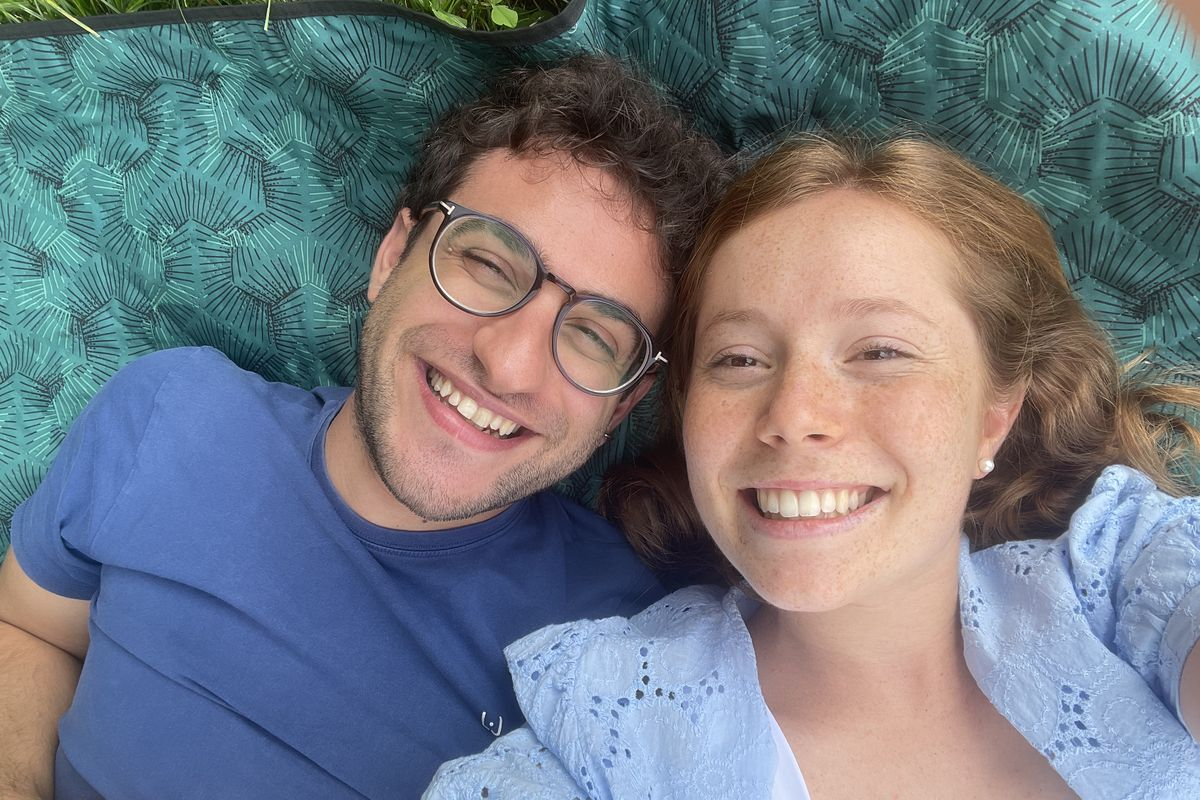
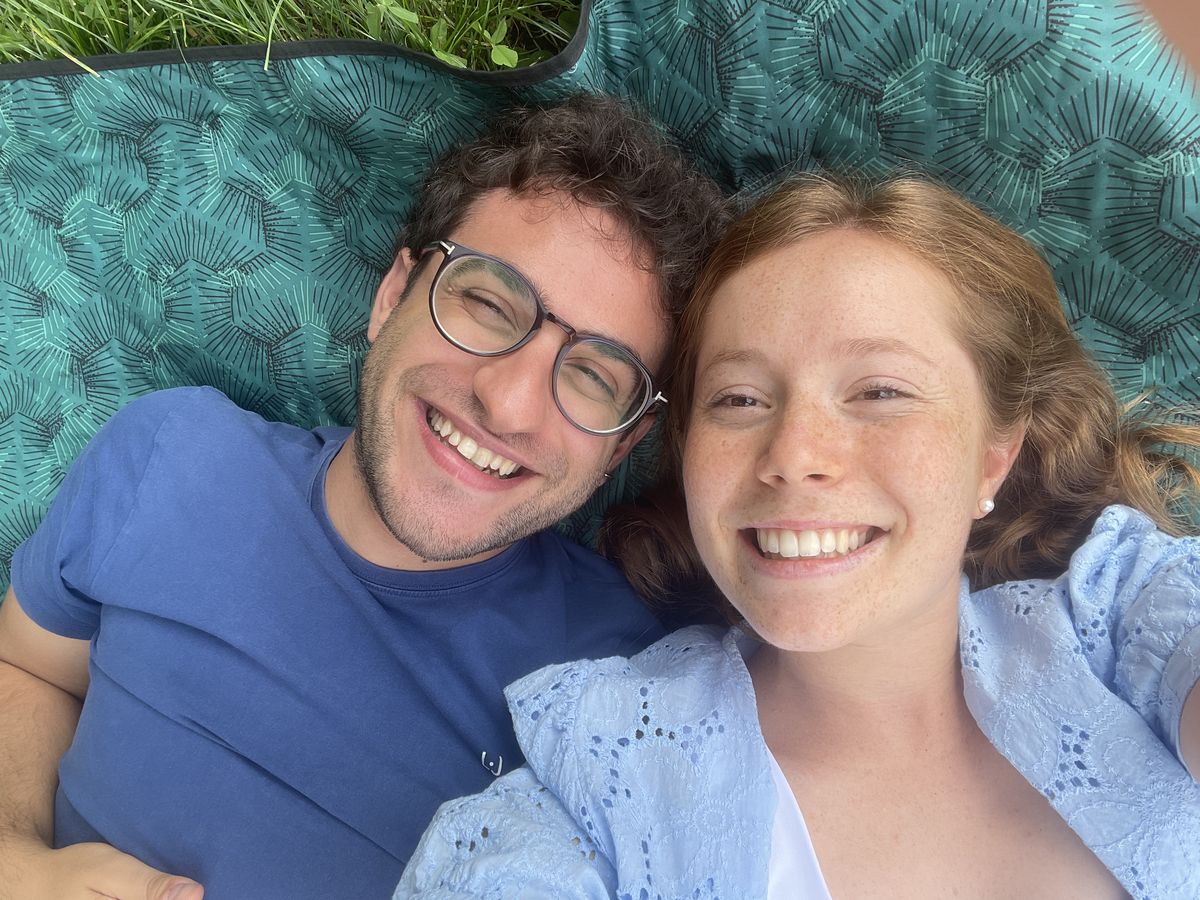
feat: update hero images and adjust aspect ratio for improved display

diff --git a/css/style.css b/css/style.css
@@ -216,7 +216,7 @@ a { color: inherit; }
 }
 .hero__frame {
   position: relative;
-  aspect-ratio: 3 / 2;
+  aspect-ratio: 4 / 3;
   background: var(--blanket);
   box-shadow: 0 .6rem 1.6rem rgba(18, 48, 68, .22);
 }
@@ -649,17 +649,52 @@ a { color: inherit; }
   height: 1.9rem;
   padding: 0;
   transform: translate(-50%, -50%);
-  background: var(--blanket);
+  background: none;
+  border: 0;
   color: #fff;
+  cursor: pointer;
+}
+.trip__pin-num {
+  display: grid;
+  place-items: center;
+  width: 100%;
+  height: 100%;
+  background: var(--blanket);
   border: 2px solid #fff;
   border-radius: 50%;
   box-shadow: 0 .15rem .5rem rgba(18, 48, 68, .35);
   font: 500 1rem/1 var(--serif);
-  cursor: pointer;
   transition: transform .15s, background-color .15s;
 }
-.trip__pin:hover, .trip__pin.is-active { background: var(--ink); transform: translate(-50%, -50%) scale(1.15); }
-.trip__pin:focus-visible, .trip__stop:focus-visible { outline: 3px solid var(--ink); outline-offset: 3px; }
+.trip__pin:hover .trip__pin-num, .trip__pin.is-active .trip__pin-num { background: var(--ink); transform: scale(1.15); }
+.trip__pin:focus-visible, .trip__stop:focus-visible { outline: 3px solid var(--ink); outline-offset: 3px; border-radius: 50%; }
+.trip__pin-name {
+  position: absolute;
+  white-space: nowrap;
+  font-family: var(--caps);
+  font-weight: 500;
+  font-size: .95rem;
+  line-height: 1;
+  color: var(--ink);
+  text-shadow: 0 0 2px #fff, 0 0 4px #fff, 0 0 7px #f6fafc;
+  pointer-events: none;
+}
+.trip__pin-name--right { left: calc(100% + .35rem); top: 50%; transform: translateY(-50%); }
+.trip__pin-name--left { right: calc(100% + .35rem); top: 50%; transform: translateY(-50%); }
+.trip__pin-name--above { bottom: calc(100% + .25rem); left: 50%; transform: translateX(-50%); }
+.trip__pin-name--below { top: calc(100% + .25rem); left: 50%; transform: translateX(-50%); }
+.trip__hint { margin: .9rem 0 0; text-align: center; font-style: italic; color: var(--muted); }
+/* Finché nessuno ha toccato un numero, i segnaposto pulsano piano per far capire che si possono premere. */
+@media (prefers-reduced-motion: no-preference) {
+  .trip.is-new .trip__pin-num { animation: pin-pulse 2.4s ease-out infinite; }
+  .trip.is-new .trip__pin:nth-of-type(2) .trip__pin-num { animation-delay: .3s; }
+  .trip.is-new .trip__pin:nth-of-type(3) .trip__pin-num { animation-delay: .6s; }
+  .trip.is-new .trip__pin:nth-of-type(4) .trip__pin-num { animation-delay: .9s; }
+}
+@keyframes pin-pulse {
+  0% { box-shadow: 0 .15rem .5rem rgba(18, 48, 68, .35), 0 0 0 0 rgba(51, 92, 114, .5); }
+  70%, 100% { box-shadow: 0 .15rem .5rem rgba(18, 48, 68, .35), 0 0 0 .9rem rgba(51, 92, 114, 0); }
+}
 .trip__pop {
   position: absolute;
   z-index: 3;
@@ -728,10 +763,7 @@ a { color: inherit; }
   font: 500 .95rem/1 var(--serif);
 }
 .timeline__item.is-active .trip__num { background: var(--ink); }
-@media (min-width: 52rem) {
-  .trip { max-width: 62rem; display: grid; grid-template-columns: 1.15fr 1fr; gap: 3rem; align-items: center; }
-  .trip__legend { margin: 0; }
-}
+.trip.has-map .trip__legend { display: none; }
 
 /* ───── Contatti e galleria ───── */
 .contacts { list-style: none; margin: 1.6rem 0 0; padding: 0; display: grid; gap: .8rem; text-align: center; }

diff --git a/js/app.js b/js/app.js
@@ -626,10 +626,13 @@
   function setupTripMap() {
     var data = window.TRIP_MAP;
     var box = $('#trip-map');
-    if (!data || !box) return;
+    var wrap = $('.trip');
+    if (!data || !box || !wrap) return;
     var NS = 'http://www.w3.org/2000/svg';
     var W = data.width, H = data.height;
     var photosOf = function (id) { return (SITE.tripPhotos && SITE.tripPhotos[id]) || []; };
+    // Dove sta il nome rispetto al segnaposto, scelto per non finire sopra i tragitti.
+    var LABEL_SIDE = { tokyo: 'below', kyoto: 'above', osaka: 'left', samui: 'right' };
 
     function svgEl(name, attrs) {
       var el = document.createElementNS(NS, name);
@@ -669,8 +672,10 @@
       if (!c) return;
       order.push(id);
       stops[id] = btn;
-      pins[id] = h('button', { type: 'button', class: 'trip__pin', 'data-city': id, text: String(order.length),
-        style: 'left:' + (c.x / W) * 100 + '%;top:' + (c.y / H) * 100 + '%' });
+      pins[id] = h('button', { type: 'button', class: 'trip__pin', 'data-city': id,
+        style: 'left:' + (c.x / W) * 100 + '%;top:' + (c.y / H) * 100 + '%' },
+        h('span', { class: 'trip__pin-num', text: String(order.length) }),
+        h('span', { class: 'trip__pin-name trip__pin-name--' + (LABEL_SIDE[id] || 'right'), text: textOf(btn, '.trip__city') }));
       box.append(pins[id]);
       var open = function (e) { e.stopPropagation(); select(id); };
       pins[id].addEventListener('click', open);
@@ -685,6 +690,7 @@
 
     function select(id) {
       current = id;
+      wrap.classList.remove('is-new');
       Object.keys(pins).forEach(function (k) {
         pins[k].classList.toggle('is-active', k === id);
         stops[k].classList.toggle('is-active', k === id);
@@ -737,12 +743,22 @@
       Object.keys(pins).forEach(function (k) { pins[k].classList.remove('is-active'); stops[k].classList.remove('is-active'); });
     }
 
+    // Etichette per chi usa lo screen reader: nome e date, nella lingua corrente.
+    function refreshLabels() {
+      order.forEach(function (id) {
+        pins[id].setAttribute('aria-label', textOf(stops[id], '.trip__city') + ', ' + textOf(stops[id], '.timeline__when'));
+      });
+    }
+    refreshLabels();
+    wrap.classList.add('has-map', 'is-new');
+    $('#trip-hint').hidden = false;
+
     document.addEventListener('click', function (e) { if (current && !pop.contains(e.target)) close(); });
     document.addEventListener('keydown', function (e) { if (e.key === 'Escape' && current) close(); });
     window.addEventListener('resize', place);
     // Cambio lingua: il fumetto aperto si riscrive nella nuova lingua.
     document.querySelectorAll('.lang button').forEach(function (b) {
-      b.addEventListener('click', function () { if (current) select(current); });
+      b.addEventListener('click', function () { refreshLabels(); if (current) select(current); });
     });
     applyI18n();
   }

diff --git a/index.html b/index.html
@@ -56,7 +56,7 @@
 
       <figure class="hero__figure">
         <div class="hero__frame">
-          <img class="hero__photo" src="assets/hero/01.jpg" width="1200" height="800"
+          <img class="hero__photo" src="assets/hero/01.jpg" width="1200" height="900"
                alt="Lucia e Luigi insieme, sorridenti" data-i18n-attr="alt:hero.photoAlt" fetchpriority="high">
         </div>
         <figcaption class="hero__names" aria-label="Luci e Gigi"><span aria-hidden="true">Luci <span class="amp">&amp;</span> Gigi</span></figcaption>
@@ -173,6 +173,7 @@
         <p class="lead" data-i18n="trip.lead">Dopo il matrimonio partiamo per il Giappone e la Thailandia.</p>
         <div class="trip">
           <div class="trip__map" id="trip-map"></div>
+          <p class="trip__hint" id="trip-hint" data-i18n="trip.hint" hidden>Tocca i numeri sulla mappa per scoprire le tappe.</p>
           <ol class="timeline trip__legend" id="trip-legend">
             <li class="timeline__item" data-city="tokyo">
               <p class="timeline__when" data-i18n="trip.d1">2–8 giugno</p>

diff --git a/js/i18n.js b/js/i18n.js
@@ -114,6 +114,7 @@ window.I18N = {
     'trip.d4': '13–18 giugno',
     'trip.jp': 'Giappone',
     'trip.close': 'Chiudi',
+    'trip.hint': 'Tocca i numeri sulla mappa per scoprire le tappe.',
     'trip.th': 'Thailandia',
     'gift.title': 'Regalo di nozze',
     'gift.text': 'Il regalo più bello è averti con noi. Se vorrai farci un pensiero, non abbiamo una lista nozze: ci renderà felici un piccolo contributo per iniziare insieme la nostra vita da sposi. Qui sotto trovi i dati per il bonifico. Grazie di cuore!',
@@ -255,6 +256,7 @@ window.I18N = {
     'trip.d4': '13–18 June',
     'trip.jp': 'Japan',
     'trip.close': 'Close',
+    'trip.hint': 'Tap the numbers on the map to explore each stop.',
     'trip.th': 'Thailand',
     'gift.title': 'Wedding gift',
     'gift.text': 'The best gift is having you with us. If you’d like to give us something, we don’t have a gift list: a small contribution will help us start our married life together. You’ll find the bank details below. Thank you from the bottom of our hearts!',

diff --git a/tools/optimize_photos.py b/tools/optimize_photos.py
@@ -9,7 +9,7 @@ Per ogni foto crea in photos/ una versione grande (lato lungo max 1600 px) e in 
 Le foto vengono ruotate secondo l'orientamento e ripulite da tutti i metadati (posizione GPS compresa):
 il sito è pubblico, quindi non deve uscire nulla che non si veda nell'immagine.
 
-Con --hero le foto vengono ritagliate in 3:2 (il formato della cornice), larghe 1200 px, e salvate in assets/hero/;
+Con --hero le foto vengono ritagliate in 4:3 (il formato della cornice), larghe 1200 px, e salvate in assets/hero/;
 il ritaglio tiene il punto di fuoco un po' sopra il centro (--focus 0.4) così i visi restano dentro. Con --sheet FILE.jpg
 crea anche un foglio di anteprima con tutte le foto, per controllare i ritagli.
 
@@ -31,7 +31,7 @@ except ImportError:  # senza il plugin le foto HEIC vengono saltate con un messa
 ROOT = Path(__file__).resolve().parent.parent
 EXTENSIONS = {'.jpg', '.jpeg', '.png', '.webp', '.heic', '.heif'}
 HERO_WIDTH = 1200
-HERO_RATIO = 3 / 2
+HERO_RATIO = 4 / 3
 FULL_SIZE = 1600
 THUMB_SIZE = 480
 
@@ -71,7 +71,7 @@ def main():
     parser = argparse.ArgumentParser(description=__doc__, formatter_class=argparse.RawDescriptionHelpFormatter)
     parser.add_argument('source', type=Path, help='cartella con le foto originali (anche sottocartelle)')
     parser.add_argument('--out', type=Path, help='cartella di destinazione (default: photos/, con --hero assets/hero/)')
-    parser.add_argument('--hero', action='store_true', help="foto per l'apertura: ritagliate 3:2, in assets/hero/")
+    parser.add_argument('--hero', action='store_true', help="foto per l'apertura: ritagliate 4:3, in assets/hero/")
     parser.add_argument('--focus', type=float, default=0.4, help='con --hero: dove tenere il ritaglio nelle foto alte (0 alto, 1 basso)')
     parser.add_argument('--sheet', type=Path, help='con --hero: salva qui un foglio di anteprima dei ritagli')
     args = parser.parse_args()

diff --git a/CLAUDE.md b/CLAUDE.md
@@ -35,8 +35,8 @@ Contesto per Claude Code: stato del progetto e decisioni prese finora. Lingua di
   - Scartati: navetta, alloggio, canzone.
 - **Backend RSVP:** Google Sheet + Google Apps Script (web app) che riceve le risposte dal sito. Gratuito; il foglio si scarica in Excel. Risposte e codici vivono solo nel foglio; i link personali pre-generati dal menu "Genera codici e link" restano possibili ma non servono più.
 - **Privacy: "pubblico ma discreto".** Informazioni generali visibili a chiunque abbia l'indirizzo; `noindex` (fuori da Google). Con il link unico **IBAN, scadenza e stato (chiuso/aperto) sono pubblici**: li restituisce `?action=info` a chiunque. L'IBAN vero sta nel foglio `Config`, non nella repo; le risposte degli invitati escono dallo script solo con il codice della risposta. Antispam: campo trappola nascosto, massimo 12 persone per risposta, massimo 600 righe in `Invitati`. **La repo è pubblica: mai mettere IBAN, liste di invitati o altri dati personali nel codice.**
-- **Sezioni:** copertina (nomi, data, countdown, "aggiungi al calendario"), programma, **La Chiesa** (orario, indirizzo, "Apri in Maps", mappa, parcheggio), **Il Ricevimento** (idem + percorso dalla chiesa), RSVP (sezione con pulsante "RSVP" che apre il modulo; il pulsante c'è sempre; senza backend, cliccandolo compare "aprirà a breve"), **viaggio di nozze** (mappa illustrata interattiva nei colori del sito, fatta il 2026-10-25: Giappone in alto con Tokyo 2-8 giugno, Kyoto 8-11, Osaka 11-13; Thailandia in basso con Koh Samui 13-18; tragitti tratteggiati; toccando un segnaposto numerato o una tappa dell'elenco compare un fumetto con date e foto; disegni in `js/trip-map-data.js` generato da `tools/make_trip_map.py` con i confini Natural Earth; foto delle tappe: una per città in `assets/trip/` (mandate da Luigi il 2026-10-25, probabilmente prese da internet), elenco `tripPhotos` in `js/config.js`; date e testi in `i18n.js` chiavi `trip.*` e nell'elenco di `index.html`; le date sono ancora indicative), regalo di nozze (solo IBAN, niente lista regali; sezione sempre visibile, IBAN con pulsante "copia"), contatti, **galleria foto** (45 foto in `photos/`, scelte da Luigi nello zip `Luci&Gigi-…zip` del 2026-10-25 con la foto del Save the Date per prima; compare con il pulsante "Guarda le foto" accanto a RSVP in apertura). Scartate: la sezione FAQ (tolta il 2026-10-23), "la nostra storia", "come arrivare e dormire" generale, foto degli ospiti con QR.
-- **Apertura con foto a scorrimento (fatta il 2026-10-25):** al posto della singola foto del Save the Date scorrono 15 foto di Lucia e Luigi (`assets/hero/01..15.jpg`, 1200x800, senza metadati), la prima è sempre la foto del Save the Date (`01.jpg`), le altre in ordine casuale a ogni visita, una ogni 6 s con dissolvenza di 1,2 s (`SLIDE_MS` in `app.js`; ferma con `prefers-reduced-motion`; in pausa a scheda nascosta; ne scarica una alla volta). Scelte da Claude tra le 62 della cartella privata del Drive di Luigi ("Matrimonio > Foto Luci&Gigi") guardando le anteprime: da cambiare se Luigi preferisce altre. Per rifarlo: scaricare lo zip, `pip install pillow pillow-heif` (nota: su questo PC `python` è quello di Inkscape, senza pip: usare il Python 3.11 di WindowsApps), `python tools/optimize_photos.py CARTELLA --hero --sheet anteprima.jpg`, scegliere le foto, aggiornare `heroPhotos` in `js/config.js` e il primo `src` in `index.html`. Se `heroPhotos` ha meno di 2 foto resta ferma la prima. **`assets/og.jpg` (anteprima WhatsApp) è ancora ricavata dalla foto del Save the Date**: rigenerarla se si vuole cambiare.
+- **Sezioni:** copertina (nomi, data, countdown, "aggiungi al calendario"), programma, **La Chiesa** (orario, indirizzo, "Apri in Maps", mappa, parcheggio), **Il Ricevimento** (idem + percorso dalla chiesa), RSVP (sezione con pulsante "RSVP" che apre il modulo; il pulsante c'è sempre; senza backend, cliccandolo compare "aprirà a breve"), **viaggio di nozze** (mappa illustrata interattiva nei colori del sito, fatta il 2026-10-25: Giappone in alto con Tokyo 2-8 giugno, Kyoto 8-11, Osaka 11-13; Thailandia in basso con Koh Samui 13-18; tragitti tratteggiati; toccando un segnaposto numerato (con il nome accanto, che pulsa finché nessuno lo tocca; sotto la mappa c è un suggerimento) compare un fumetto con date e foto; l elenco delle tappe in HTML resta solo come ripiego senza JavaScript; disegni in `js/trip-map-data.js` generato da `tools/make_trip_map.py` con i confini Natural Earth; foto delle tappe: una per città in `assets/trip/` (mandate da Luigi il 2026-10-25, probabilmente prese da internet), elenco `tripPhotos` in `js/config.js`; date e testi in `i18n.js` chiavi `trip.*` e nell'elenco di `index.html`; le date sono ancora indicative), regalo di nozze (solo IBAN, niente lista regali; sezione sempre visibile, IBAN con pulsante "copia"), contatti, **galleria foto** (45 foto in `photos/`, scelte da Luigi nello zip `Luci&Gigi-…zip` del 2026-10-25 con la foto del Save the Date per prima; compare con il pulsante "Guarda le foto" accanto a RSVP in apertura). Scartate: la sezione FAQ (tolta il 2026-10-23), "la nostra storia", "come arrivare e dormire" generale, foto degli ospiti con QR.
+- **Apertura con foto a scorrimento (fatta il 2026-10-25):** al posto della singola foto del Save the Date scorrono 16 foto di Lucia e Luigi (`assets/hero/01..16.jpg`, 1200x900 (4:3), senza metadati), la prima è sempre la foto del Save the Date (`01.jpg`), le altre in ordine casuale a ogni visita, una ogni 6 s con dissolvenza di 1,2 s (`SLIDE_MS` in `app.js`; ferma con `prefers-reduced-motion`; in pausa a scheda nascosta; ne scarica una alla volta). Scelte da Claude tra le 62 della cartella privata del Drive di Luigi ("Matrimonio > Foto Luci&Gigi") guardando le anteprime: da cambiare se Luigi preferisce altre. Per rifarlo: scaricare lo zip, `pip install pillow pillow-heif` (nota: su questo PC `python` è quello di Inkscape, senza pip: usare il Python 3.11 di WindowsApps), `python tools/optimize_photos.py CARTELLA --hero --sheet anteprima.jpg`, scegliere le foto, aggiornare `heroPhotos` in `js/config.js` e il primo `src` in `index.html`. Se `heroPhotos` ha meno di 2 foto resta ferma la prima. **`assets/og.jpg` (anteprima WhatsApp) è ancora ricavata dalla foto del Save the Date**: rigenerarla se si vuole cambiare.
 - **Foto di chiesa e ricevimento (2026-10-23):** le mappe OpenStreetMap incorporate sono state sostituite da `assets/chiesa.webp` e `assets/ricevimento.webp` (gli sposi non le gradivano); restano i pulsanti "Apri in Maps".
 - **Foto:** in una cartella Google Drive dell'utente (Drive non è sincronizzato sul PC: andranno scaricate come zip). Da ridimensionare/ottimizzare per il web prima di metterle nel sito.
 - **Assunzioni:** gli ospiti aprono il link da telefono via WhatsApp (mobile-first, anteprima link Open Graph curata); nessun costo oltre al dominio.
